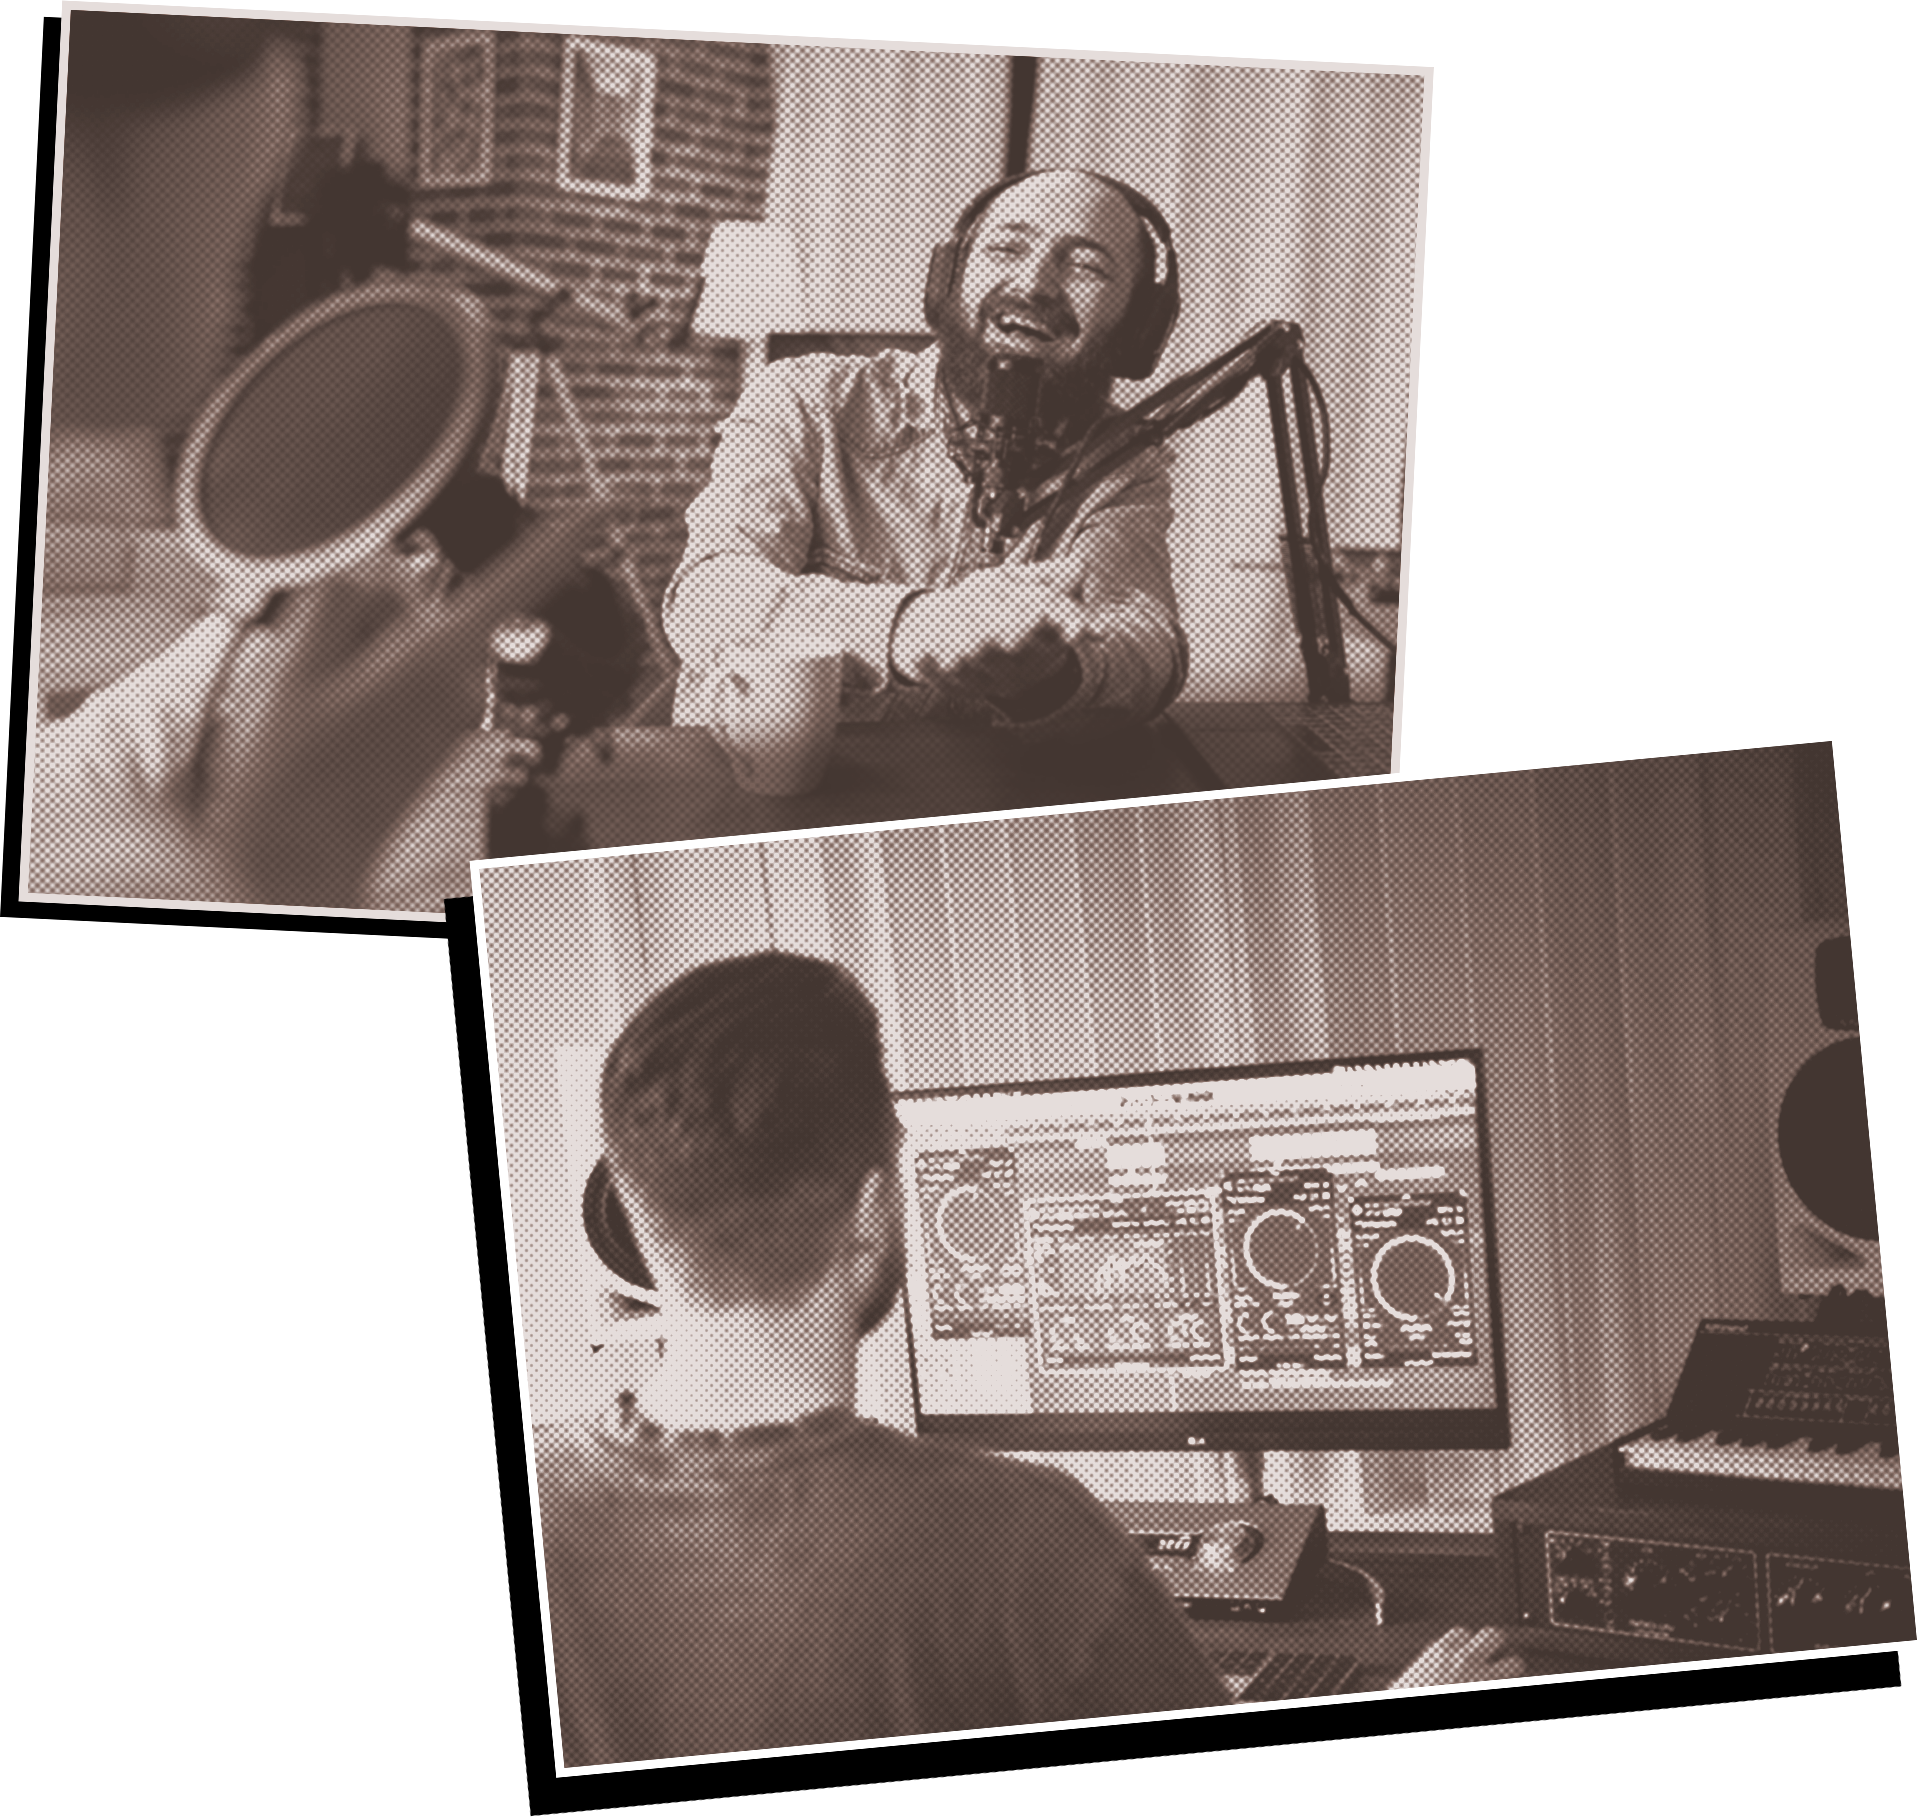
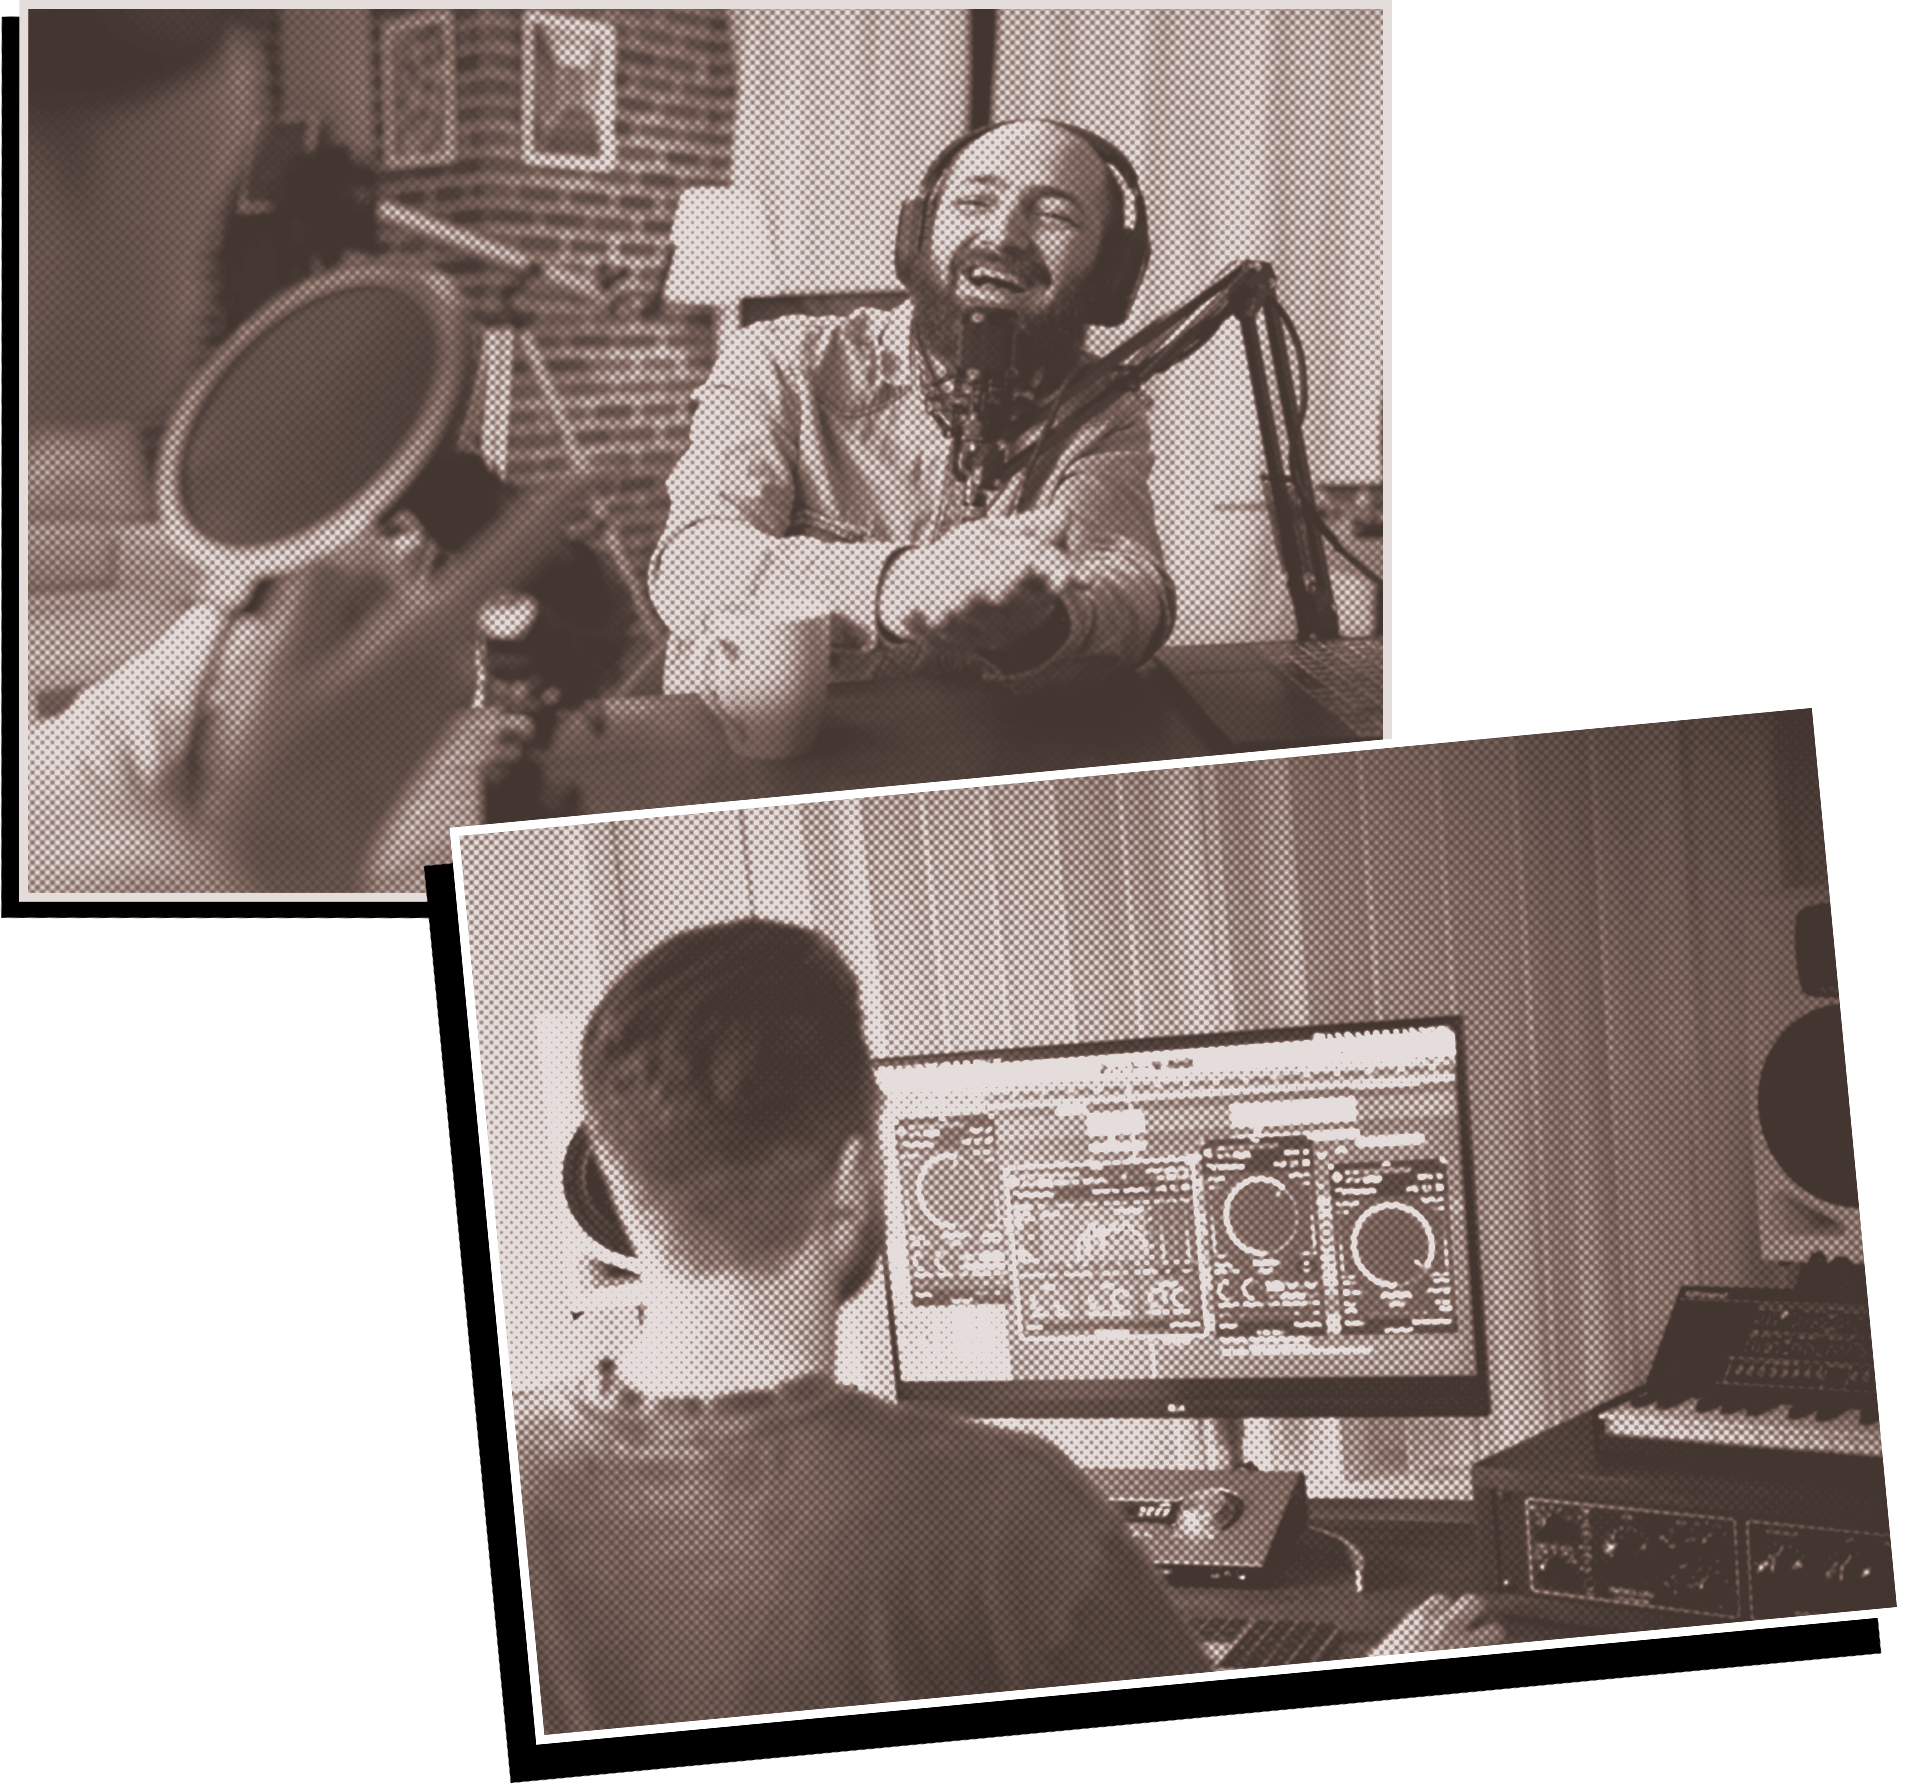
adjust 'plug-in'

diff --git a/src/App.tsx b/src/App.tsx
@@ -3,6 +3,7 @@ import About from './components/about/About'
 import CTA from './components/CTA/CTA'
 import Header from './components/header/Header'
 import Nav from './components/nav/Nav'
+import Pricing from './components/pricing/Pricing'
 import VideoLoop from './components/video/VideoLoop'
 
 const App = () => {
@@ -13,6 +14,7 @@ const App = () => {
       <About />
       <CTA />
       <VideoLoop />
+      <Pricing />
     </>
   )
 }

diff --git a/src/components/CTA/CTA.scss b/src/components/CTA/CTA.scss
@@ -30,10 +30,10 @@
         padding: 0;
         h1 {
             position: absolute;
-            font-size: 3rem;
+            font-size: 4rem;
             transform: rotate(10deg);
-            right: 0.25rem;
-            top: 1rem;
+            right: 1rem;
+            top: 0;
         }
         h2 {
             position: absolute;

diff --git a/src/components/CTA/CTA.css b/src/components/CTA/CTA.css
@@ -26,10 +26,10 @@
 }
 .cta section h1 {
   position: absolute;
-  font-size: 3rem;
+  font-size: 4rem;
   transform: rotate(10deg);
-  right: 0.25rem;
-  top: 1rem;
+  right: 1rem;
+  top: 0;
 }
 .cta section h2 {
   position: absolute;

diff --git a/src/components/pricing/Pricing.tsx b/src/components/pricing/Pricing.tsx
@@ -1,0 +1,9 @@
+import './Pricing.css'
+
+const Pricing = () => {
+  return (
+    <div>Pricing</div>
+  )
+}
+
+export default Pricing

diff --git a/src/components/pricing/Pricing.css b/src/components/pricing/Pricing.css
@@ -1,0 +1,1 @@
+/*# sourceMappingURL=Pricing.css.map */

diff --git a/src/components/pricing/Pricing.scss b/src/components/pricing/Pricing.scss
@@ -1,0 +1,1 @@
+@import '../../variables.scss'
